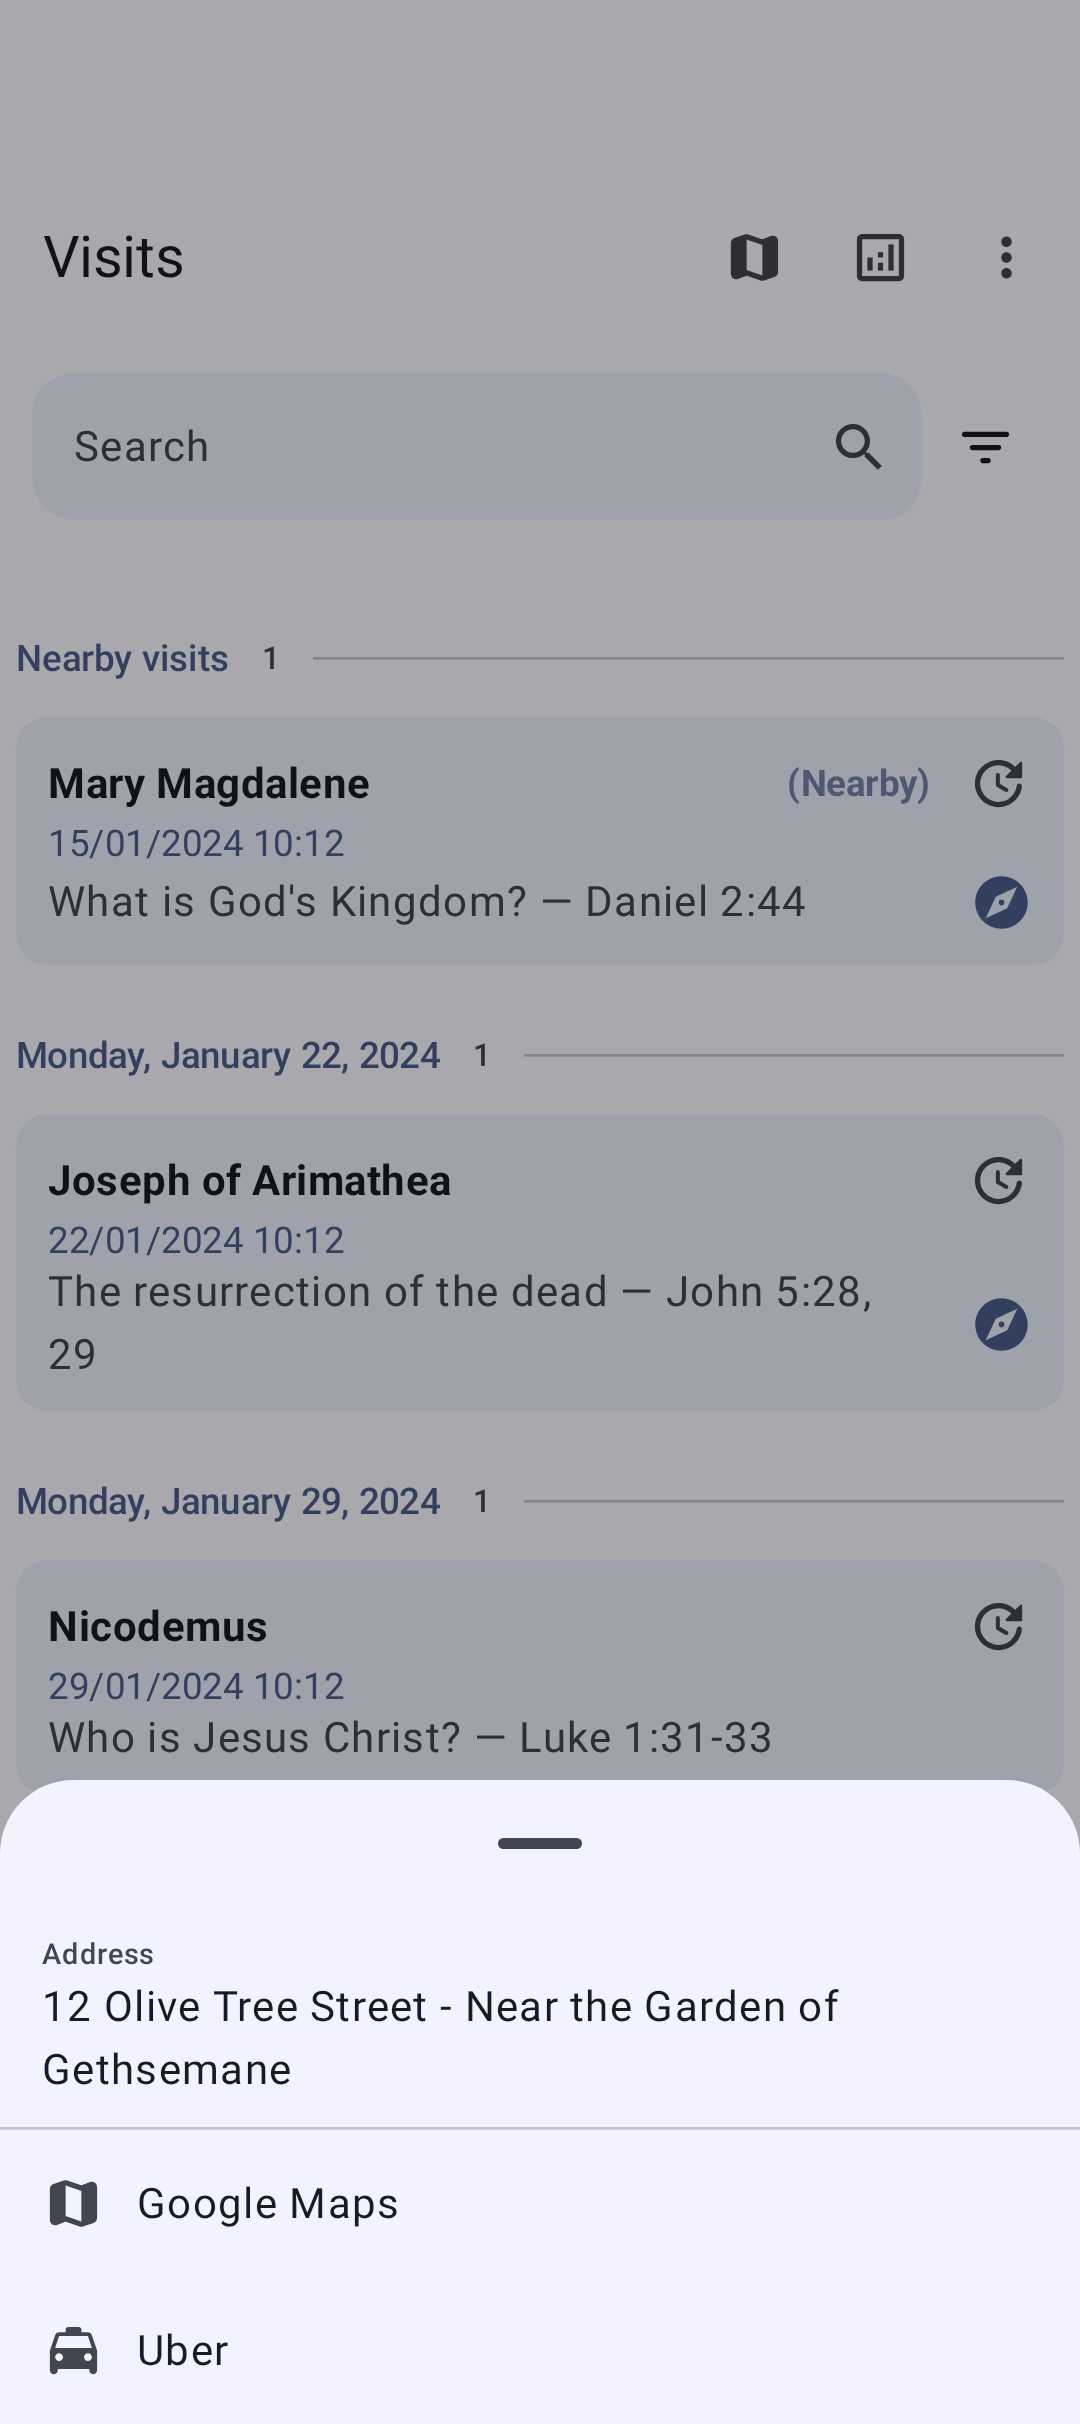
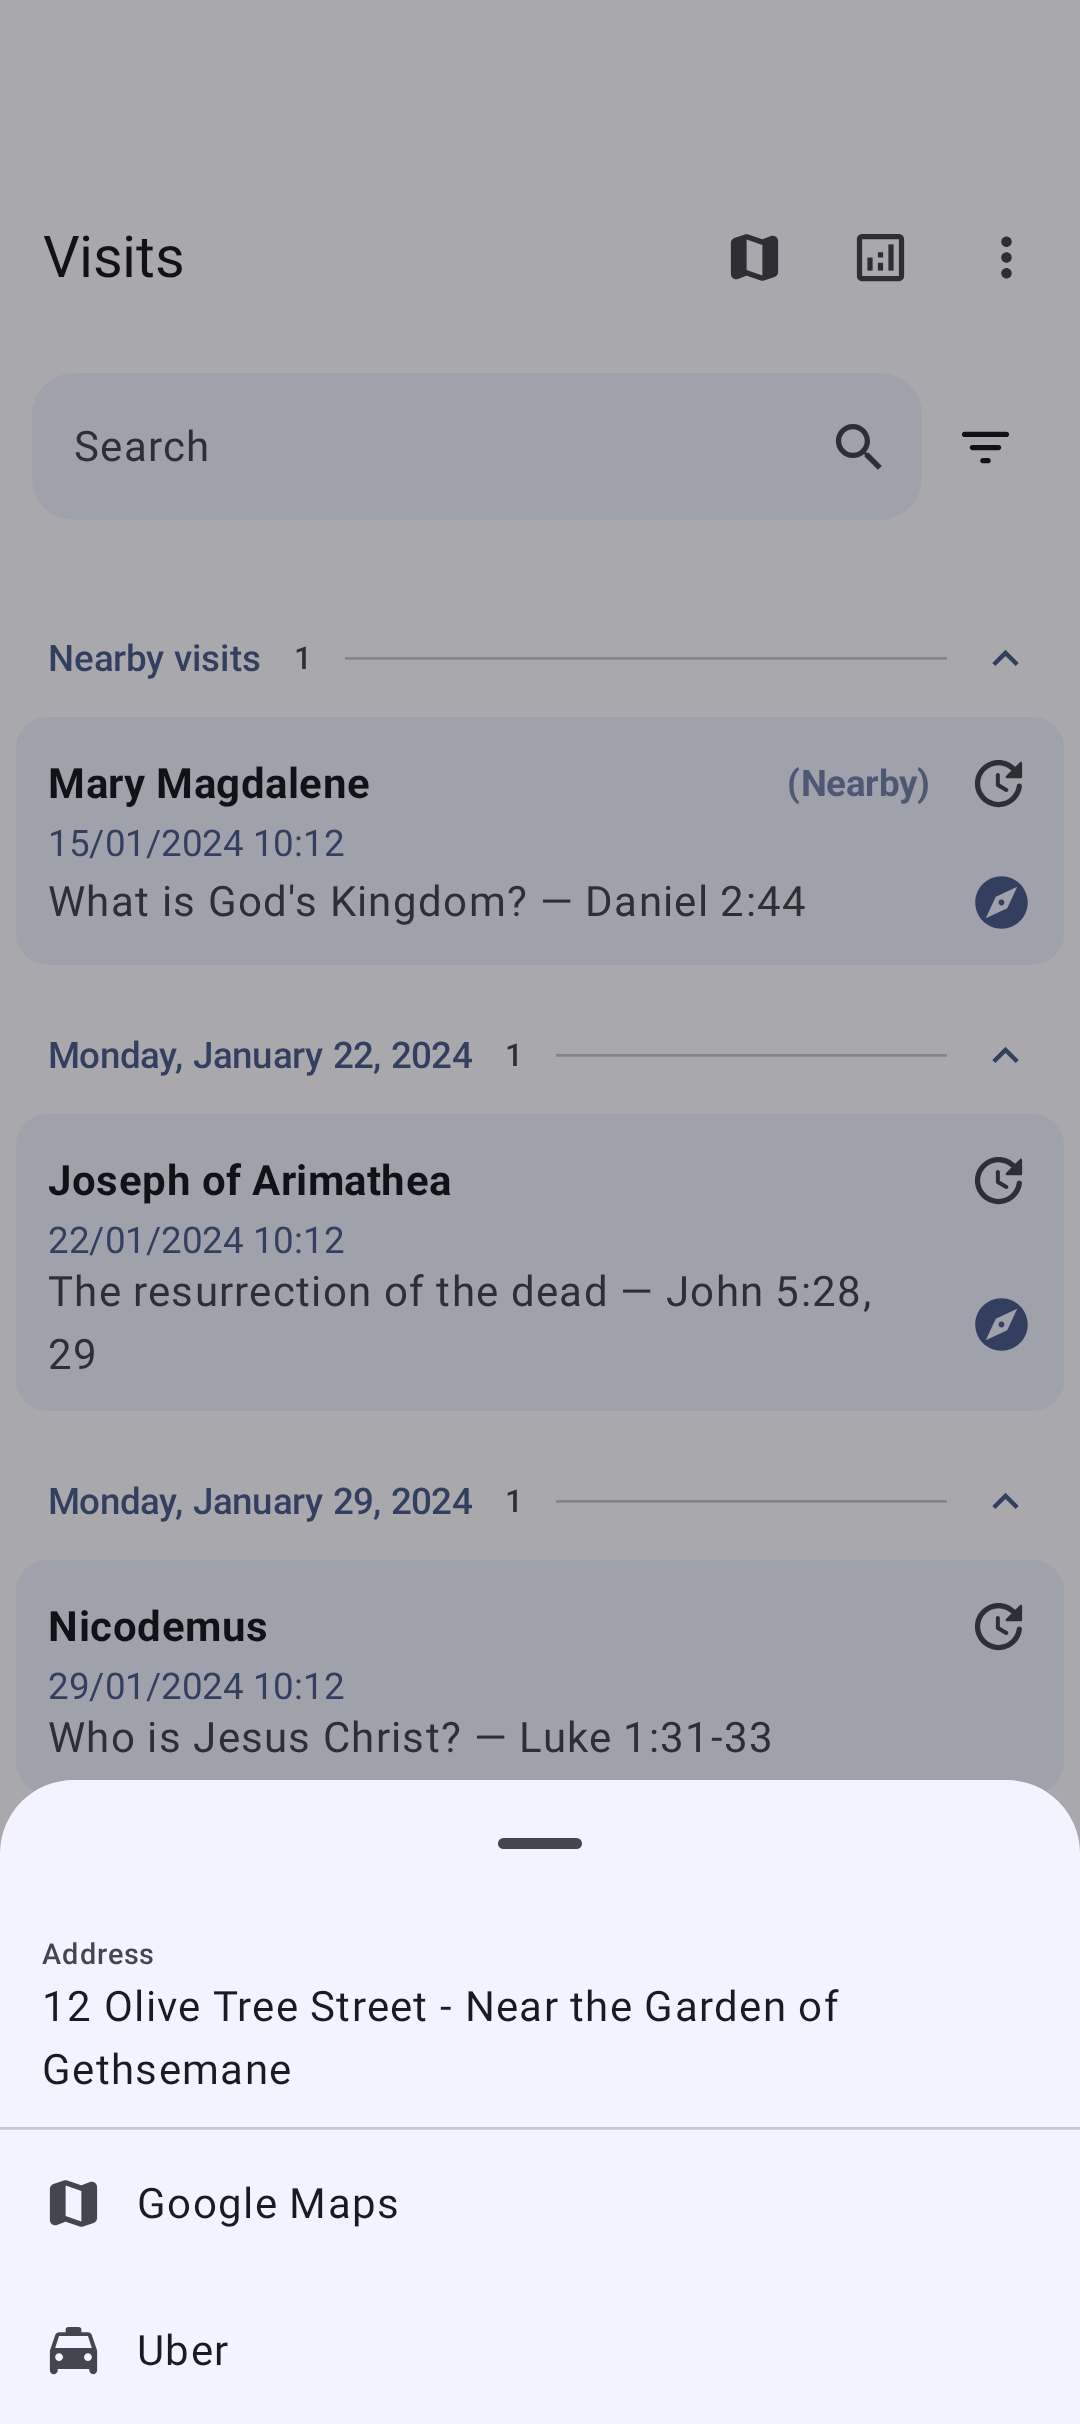
Let the reader collapse a visit list section
Tapping a section header folds its cards away, leaving the title, the count
of what is hidden, and a chevron. Collapsing is a view affordance with no
other consumer, so the state stays in the composable behind rememberSaveable
rather than in the ViewModel: nothing outside the list reads it, and
rememberSaveable already carries it across rotation and process death.

The set holds the collapsed header keys rather than the expanded ones, so a
section that shows up later — a new day, a re-run filter — opens by default,
and keys that stop matching when the grouping flips between period and day
fall away on their own.

VisitCard takes a modifier so the cards can animate in and out with
animateItem() as a section folds.

diff --git a/app/src/main/java/com/msmobile/visitas/visit/VisitListScreen.kt b/app/src/main/java/com/msmobile/visitas/visit/VisitListScreen.kt
@@ -29,6 +29,8 @@ import androidx.compose.foundation.lazy.rememberLazyListState
 import androidx.compose.material.icons.Icons
 import androidx.compose.material.icons.filled.Close
 import androidx.compose.material.icons.outlined.Analytics
+import androidx.compose.material.icons.outlined.ExpandLess
+import androidx.compose.material.icons.outlined.ExpandMore
 import androidx.compose.material.icons.rounded.Check
 import androidx.compose.material.icons.rounded.Explore
 import androidx.compose.material.icons.rounded.FilterList
@@ -61,9 +63,13 @@ import androidx.compose.runtime.Composable
 import androidx.compose.runtime.DisposableEffect
 import androidx.compose.runtime.LaunchedEffect
 import androidx.compose.runtime.getValue
+import androidx.compose.runtime.mutableStateListOf
 import androidx.compose.runtime.mutableStateOf
 import androidx.compose.runtime.remember
+import androidx.compose.runtime.saveable.listSaver
+import androidx.compose.runtime.saveable.rememberSaveable
 import androidx.compose.runtime.setValue
+import androidx.compose.runtime.toMutableStateList
 import androidx.compose.ui.Alignment
 import androidx.compose.ui.Modifier
 import androidx.compose.ui.graphics.Color
@@ -139,6 +145,9 @@ private const val VISIT_MAP_ANIMATION_DURATION = 300
 // DropdownMenu container values mirrored so the filter-menu preview matches the real popup.
 private val FILTER_MENU_ELEVATION = 3.dp
 private val FILTER_MENU_VERTICAL_PADDING = 8.dp
+
+/** Sized down from the 24.dp icon default so the chevron sits with the section title, not over it. */
+private val SECTION_CHEVRON_SIZE = 20.dp
 
 @Destination<RootGraph>(style = ListScreenStyle::class, start = true)
 @Composable
@@ -617,6 +626,14 @@ private fun VisitsList(
     val sections = remember(visitList, groupByPeriod, showNearbyVisits) {
         visitList.toSections(groupByPeriod = groupByPeriod, showNearby = showNearbyVisits)
     }
+    // Which sections the reader has collapsed, by header key. Collapsing is a view affordance
+    // with no other consumer, so it stays out of the ViewModel; rememberSaveable is what carries
+    // it across rotation and process death. Holding the *collapsed* keys rather than the expanded
+    // ones keeps a section that appears later — a new day, a re-run filter — open by default, and
+    // keys that stop matching when the grouping flips between period and day simply fall away.
+    val collapsedSections = rememberSaveable(
+        saver = listSaver(save = { it.toList() }, restore = { it.toMutableStateList() })
+    ) { mutableStateListOf<String>() }
 
     LaunchedEffect(key1 = null) {
         onVisitListEvent(VisitListViewModel.UiEvent.ViewCreated)
@@ -659,19 +676,35 @@ private fun VisitsList(
                     }
                 } else {
                     sections.forEach { section ->
-                        item(key = section.header.key) {
-                            VisitSectionHeader(section = section)
-                        }
-                        items(
-                            items = section.visits,
-                            key = { visit -> visit.visitId }) { visit ->
-                            VisitCard(
-                                visit = visit,
-                                isLoading = false,
-                                showNearbyVisits = showNearbyVisits,
-                                onEvent = onVisitListEvent,
-                                onNavigate = onNavigate
+                        val sectionKey = section.header.key
+                        val isCollapsed = sectionKey in collapsedSections
+                        item(key = sectionKey) {
+                            VisitSectionHeader(
+                                section = section,
+                                isCollapsed = isCollapsed,
+                                onToggle = {
+                                    if (isCollapsed) {
+                                        collapsedSections.remove(sectionKey)
+                                    } else {
+                                        collapsedSections.add(sectionKey)
+                                    }
+                                },
+                                modifier = Modifier.animateItem()
                             )
+                        }
+                        if (!isCollapsed) {
+                            items(
+                                items = section.visits,
+                                key = { visit -> visit.visitId }) { visit ->
+                                VisitCard(
+                                    visit = visit,
+                                    isLoading = false,
+                                    showNearbyVisits = showNearbyVisits,
+                                    onEvent = onVisitListEvent,
+                                    onNavigate = onNavigate,
+                                    modifier = Modifier.animateItem()
+                                )
+                            }
                         }
                     }
                 }
@@ -681,15 +714,36 @@ private fun VisitsList(
 }
 
 /**
- * Title row above a run of cards: the section name, how many visits it holds, and a rule running
- * to the edge so the break between sections reads even while scrolling fast.
+ * Title row above a run of cards: the section name, how many visits it holds, a rule running
+ * across so the break between sections reads even while scrolling fast, and a chevron closing the
+ * row. The whole row is the hit target for folding the section away, so the count stays readable
+ * as a summary of what is hidden.
+ *
+ * The chevron trails rather than leads so the title keeps its alignment with the card text. It
+ * carries no content description: the row merges its descendants, and the action it stands for is
+ * already announced by the click label.
  */
 @Composable
-private fun VisitSectionHeader(section: VisitListSection) {
+private fun VisitSectionHeader(
+    section: VisitListSection,
+    isCollapsed: Boolean,
+    onToggle: () -> Unit,
+    modifier: Modifier = Modifier
+) {
+    val toggleLabel = if (isCollapsed) {
+        stringResource(R.string.visit_list_section_expand_action)
+    } else {
+        stringResource(R.string.visit_list_section_collapse_action)
+    }
     Row(
-        modifier = Modifier
+        modifier = modifier
             .fillMaxWidth()
-            .padding(top = verticalFieldPadding, start = cardInnerPadding)
+            .clickable(onClickLabel = toggleLabel, onClick = onToggle)
+            .padding(
+                top = verticalFieldPadding,
+                start = cardInnerPadding,
+                end = cardInnerPadding
+            )
             .semantics(mergeDescendants = true) { heading() },
         verticalAlignment = Alignment.CenterVertically,
         horizontalArrangement = Arrangement.spacedBy(horizontalFieldPadding)
@@ -707,6 +761,12 @@ private fun VisitSectionHeader(section: VisitListSection) {
         HorizontalDivider(
             modifier = Modifier.weight(1f),
             color = MaterialTheme.colorScheme.outlineVariant
+        )
+        Icon(
+            imageVector = if (isCollapsed) Icons.Outlined.ExpandMore else Icons.Outlined.ExpandLess,
+            contentDescription = null,
+            tint = MaterialTheme.colorScheme.primary,
+            modifier = Modifier.size(SECTION_CHEVRON_SIZE)
         )
     }
 }
@@ -859,11 +919,12 @@ private fun VisitCard(
     showNearbyVisits: Boolean,
     onEvent: (VisitListViewModel.UiEvent) -> Unit,
     onNavigate: (Direction) -> Unit,
+    modifier: Modifier = Modifier,
 ) {
     val isHouseholderAddressNearby =
         visit.householderAddressDistance is AddressProvider.AddressDistance.Nearby
     Card(
-        modifier = Modifier
+        modifier = modifier
             .fillMaxWidth()
             .wrapContentHeight(),
         colors = CardDefaults.cardColors()
